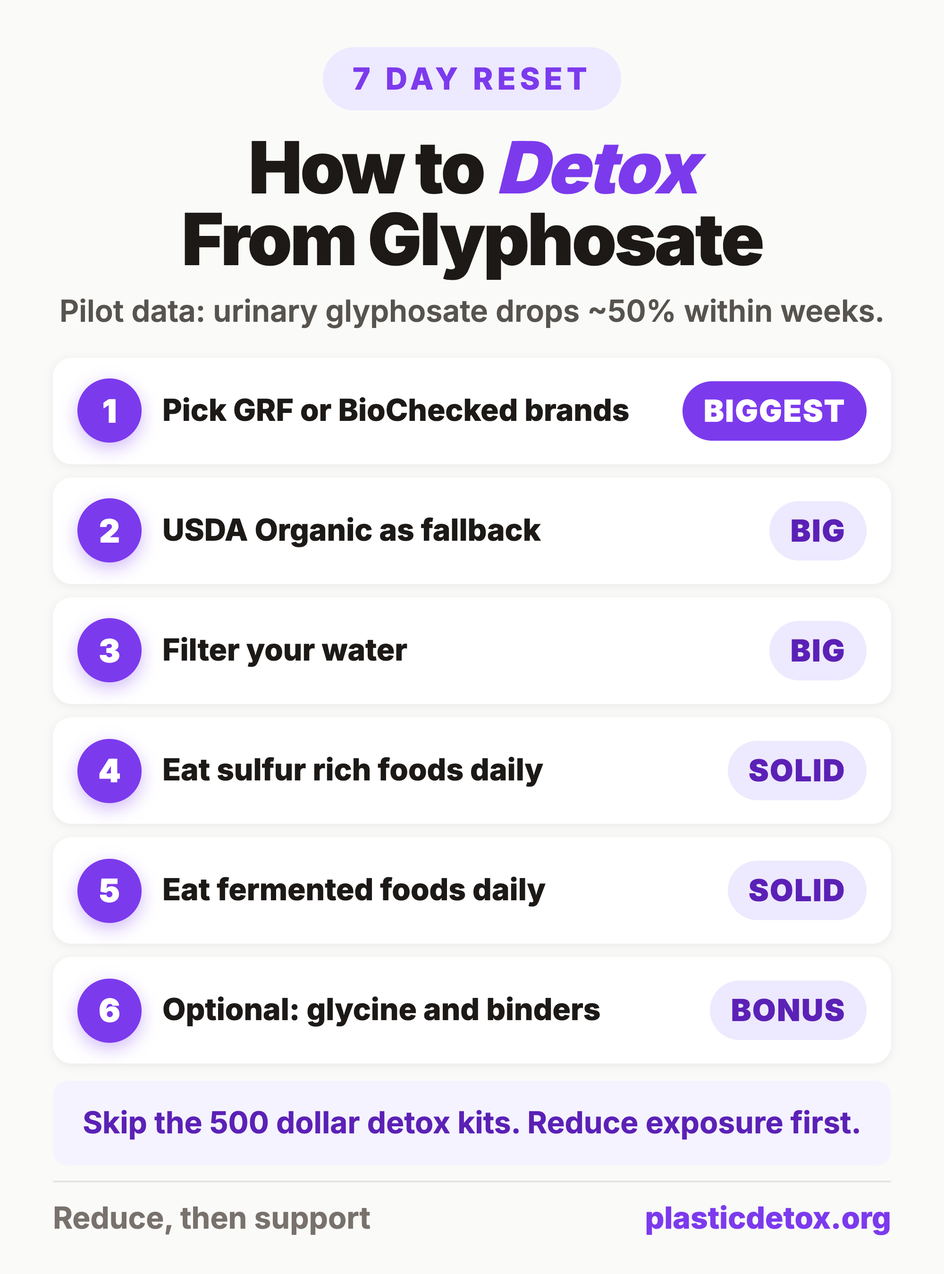
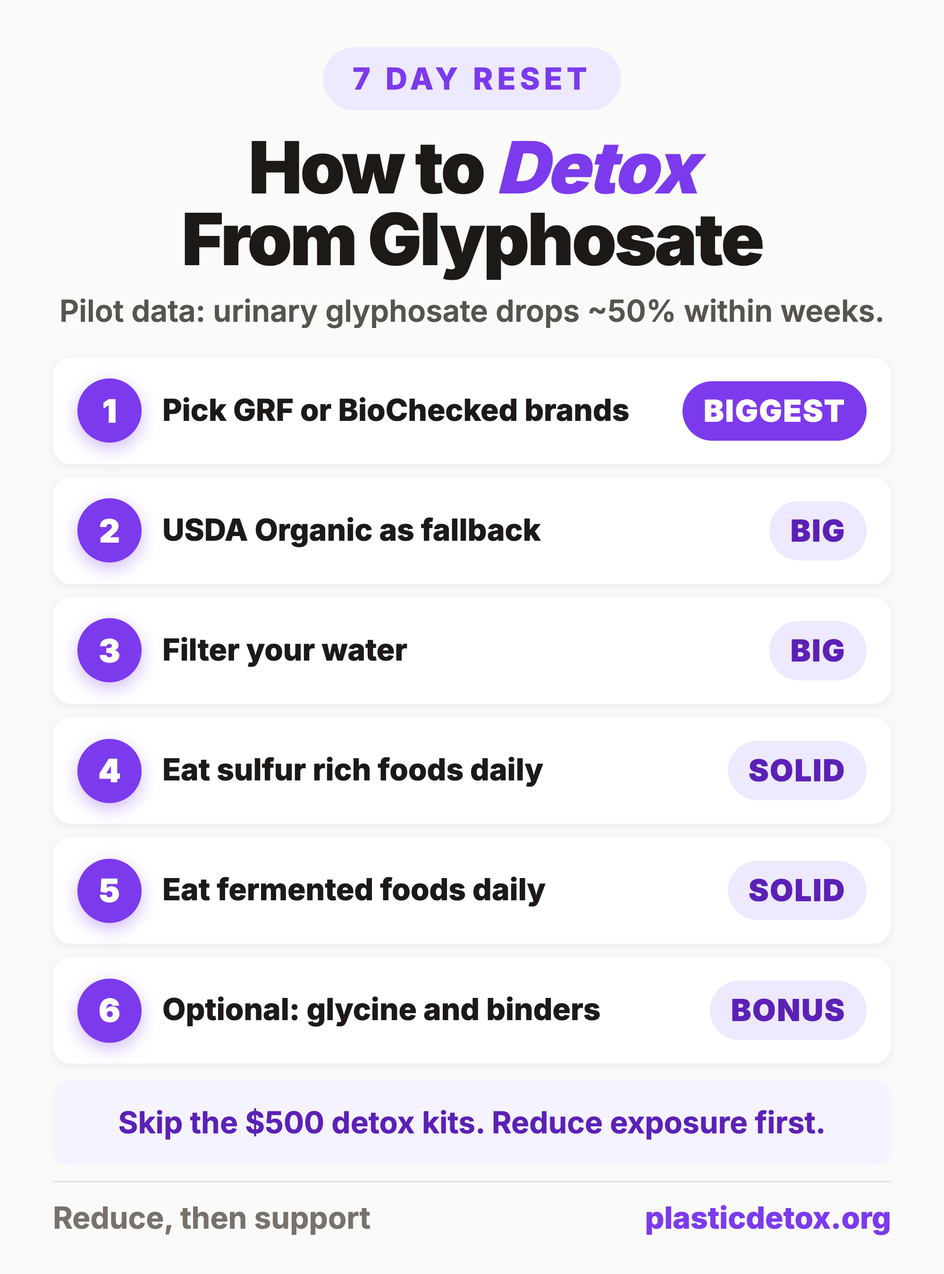
Embed detox and health effects pins, drop pouch recommendations, $ style
- Embeds the health effects summary pin in section 5 and the detox
  roadmap pin at the start of section 7 so readers get the gist without
  scrolling the long copy.
- Adds a "bookmark these two databases" line to the section 2 callout
  pointing to detoxproject.org and biochecked.com, since certifications
  apply per-SKU and the lists update.
- Replaces all baby food pouch recommendations with homemade-puree-in-glass
  and stage 1 glass jar guidance. Microplastics from pouch films are a
  separate exposure on top of pesticide load. Removes Serenity Kids and
  Once Upon a Farm from the brands list.
- Replaces "X to Y dollars" prose with "$X to $Y" everywhere across both
  affected articles, including the "around $100", "$500 detox kits", and
  "$16 billion" references.

Changed region(s): [[0.093, 0.8711, 0.899, 0.9022]]

diff --git a/articles/glyphosate-detox-guide.html b/articles/glyphosate-detox-guide.html
@@ -84,7 +84,7 @@
         "name": "Is glyphosate a carcinogen?",
         "acceptedAnswer": {
           "@type": "Answer",
-          "text": "The International Agency for Research on Cancer (IARC) classified glyphosate as a probable human carcinogen (Group 2A) in 2015, citing evidence linking it to non Hodgkin lymphoma. The 2025 Global Glyphosate Study from the Ramazzini Institute found tumor formation in animals at doses considered safe by EU regulators. The EPA continues to classify glyphosate as not likely to be carcinogenic, which is why the science remains contested. Bayer has committed more than 16 billion dollars to Roundup cancer settlements and set aside additional billions in reserves, one of the largest pesticide related mass tort settlements in U.S. history."
+          "text": "The International Agency for Research on Cancer (IARC) classified glyphosate as a probable human carcinogen (Group 2A) in 2015, citing evidence linking it to non Hodgkin lymphoma. The 2025 Global Glyphosate Study from the Ramazzini Institute found tumor formation in animals at doses considered safe by EU regulators. The EPA continues to classify glyphosate as not likely to be carcinogenic, which is why the science remains contested. Bayer has committed more than $16 billion to Roundup cancer settlements and set aside additional billions in reserves, one of the largest pesticide related mass tort settlements in U.S. history."
         }
       },
       {
@@ -124,7 +124,7 @@
         "name": "Can I test myself for glyphosate exposure?",
         "acceptedAnswer": {
           "@type": "Answer",
-          "text": "Yes, but only with a mass spectrometry mail in lab. The Detox Project home test kit (roughly 99 to 129 dollars) and Mosaic Diagnostics organic acids or GPL TOX panels (roughly 200 to 300 dollars or more) both use LC MS/MS, which is sensitive enough to detect the residue levels that matter. Skip the strip style kits sold on Amazon, since most cannot detect below about 50 ppb while typical exposure shows up in the 1 to 5 ppb range. Roughly 80 percent of Americans test positive. Testing is most useful as a before and after measurement: take a baseline, change your diet for four to six weeks, then retest to see whether the changes worked."
+          "text": "Yes, but only with a mass spectrometry mail in lab. The Detox Project home test kit (roughly $99 to $129) and Mosaic Diagnostics organic acids or GPL TOX panels ($200 to $300 or more) both use LC MS/MS, which is sensitive enough to detect the residue levels that matter. Skip the strip style kits sold on Amazon, since most cannot detect below about 50 ppb while typical exposure shows up in the 1 to 5 ppb range. Roughly 80 percent of Americans test positive. Testing is most useful as a before and after measurement: take a baseline, change your diet for four to six weeks, then retest to see whether the changes worked."
         }
       }
     ]
@@ -231,7 +231,7 @@
 
     <p>If you eat conventional oatmeal, whole wheat bread, hummus, lentil soup, or feed your child store brand baby cereal, you almost certainly have glyphosate in your urine. Independent testing by the Environmental Working Group has found measurable glyphosate residues in roughly 80 percent of the Americans tested, including most children. The chemical does not stay long in any single person, but the typical American diet keeps it constantly topped up.</p>
 
-    <p>Glyphosate is the active ingredient in Roundup and the most heavily used agricultural chemical in history. It is also the subject of one of the largest pesticide related mass tort settlements in U.S. history. Bayer has committed more than 16 billion dollars to settle and resolve non Hodgkin lymphoma claims from Roundup exposure, with additional billions in reserves for pending cases. The science is still being argued, but the precautionary case for reducing exposure is strong, and the practical steps are surprisingly cheap and simple.</p>
+    <p>Glyphosate is the active ingredient in Roundup and the most heavily used agricultural chemical in history. It is also the subject of one of the largest pesticide related mass tort settlements in U.S. history. Bayer has committed more than $16 billion to settle and resolve non Hodgkin lymphoma claims from Roundup exposure, with additional billions in reserves for pending cases. The science is still being argued, but the precautionary case for reducing exposure is strong, and the practical steps are surprisingly cheap and simple.</p>
 
     <p>This guide walks through what glyphosate actually is, where it shows up in your food (the answer is not what most people expect), what the latest 2025 and 2026 research says about the health effects, and exactly how to reduce your exposure in seven days without overhauling your entire pantry.</p>
 
@@ -415,6 +415,7 @@
       <p>The Non GMO Project Verified seal certifies that the crop is not genetically engineered. It says nothing about pesticide use, and a bag of non GMO oats can be sprayed with glyphosate seven days before harvest and still carry the seal.</p>
       <p><strong>USDA Organic</strong> is much better, but it is also imperfect. Organic farmers cannot intentionally apply glyphosate, use Roundup Ready seeds, or use it for desiccation. That is real and meaningful. But organic standards still allow residues up to 5 percent of the EPA tolerance for that crop, which on wheat works out to roughly 75 ppb, and the certification is process based: it audits farming practices but does not require lab testing of the finished food.</p>
       <p>The strongest protection is a finished product testing certification. Two seals do this: the <strong>Glyphosate Residue Free</strong> certification from The Detox Project (detection limit 0.01 ppm, ~10 ppb) and the <strong>Non Glyphosate Certified</strong> seal from BioChecked (independent lab testing of finished product). Both require the food itself to test below detection, not just the field it grew in.</p>
+      <p style="margin-bottom:0;"><strong>Bookmark these two databases.</strong> Before buying any product that claims to be glyphosate free, search the brand and SKU on <a href="https://www.detoxproject.org/glyphosate-residue-free-products/" target="_blank" rel="noopener">detoxproject.org</a> and <a href="https://biochecked.com/non-glyphosate-certified/" target="_blank" rel="noopener">biochecked.com</a>. Certifications apply to specific products, not whole brand catalogs, and lists update as brands are added or expire.</p>
     </div>
 
     <!-- ============================================ -->
@@ -589,9 +590,13 @@
 
     <p>The science on glyphosate is genuinely contested, and any honest summary has to grade the findings rather than treat them as a single block. The strongest evidence is for cancer and gut microbiome disruption. The 2025 wave of research has added meaningful evidence for liver, reproductive, and neurological effects, though these are still emerging rather than settled. Here is what the literature actually supports as of early 2026.</p>
 
+    <div class="pin-container">
+      <img class="pin-img" src="../images/glyphosate-health-effects.webp" alt="Summary infographic of 5 glyphosate health effects graded by current evidence: non Hodgkin lymphoma and gut microbiome disruption rated Strong, fatty liver disease, hormonal and reproductive effects, and pregnancy effects rated Emerging" data-pin-description="What the science says about glyphosate: 5 health effects graded by current evidence. IARC says probable carcinogen. EPA says safe. The science is contested.">
+    </div>
+
     <h3>Cancer</h3>
 
-    <p>The International Agency for Research on Cancer (IARC), the cancer research arm of the World Health Organization, classified glyphosate as <strong>Group 2A: probably carcinogenic to humans</strong> in 2015, citing strong evidence in animal studies and limited evidence in humans for non Hodgkin lymphoma. The 2025 Global Glyphosate Study from Italy's Ramazzini Institute, described by its authors as the most comprehensive independent rodent study to date on the chemical, found increased rates of leukemia and other tumors in animals exposed to doses considered safe under EU regulatory limits. Bayer (which acquired Monsanto in 2018) has committed more than 16 billion dollars to settle non Hodgkin lymphoma claims from groundskeepers, farmers, and homeowners with documented Roundup exposure, with additional billions reserved for pending cases.</p>
+    <p>The International Agency for Research on Cancer (IARC), the cancer research arm of the World Health Organization, classified glyphosate as <strong>Group 2A: probably carcinogenic to humans</strong> in 2015, citing strong evidence in animal studies and limited evidence in humans for non Hodgkin lymphoma. The 2025 Global Glyphosate Study from Italy's Ramazzini Institute, described by its authors as the most comprehensive independent rodent study to date on the chemical, found increased rates of leukemia and other tumors in animals exposed to doses considered safe under EU regulatory limits. Bayer (which acquired Monsanto in 2018) has committed more than $16 billion to settle non Hodgkin lymphoma claims from groundskeepers, farmers, and homeowners with documented Roundup exposure, with additional billions reserved for pending cases.</p>
 
     <p>The EPA continues to classify glyphosate as not likely to be carcinogenic. The European Food Safety Authority took a similar position in its 2023 reapproval review. The disagreement is real, and it is mostly about which studies regulators choose to weigh more heavily. The pattern, however, is consistent: independent and international cancer agencies see a signal that national regulatory bodies in the United States and Europe have so far chosen not to act on.</p>
 
@@ -638,11 +643,11 @@
 
     <p>Two reputable options:</p>
     <ul>
-      <li><strong><a href="https://www.detoxproject.org/test-yourself/glyphosate-test-kit/" target="_blank" rel="noopener">The Detox Project home test kit</a></strong>, roughly 99 to 129 dollars. Uses ELISA screening with LC MS/MS confirmation, sensitive to about 0.5 ppb. You collect a first morning urine sample at home, ship it back, and receive results in two to three weeks. The Detox Project also runs the Glyphosate Residue Free certification program, so the lab work behind the seal is the same lab work behind the test.</li>
-      <li><strong><a href="https://www.mosaicdx.com/" target="_blank" rel="noopener">Mosaic Diagnostics</a></strong> (formerly Great Plains Laboratory), roughly 200 to 300 dollars or more depending on the panel. The GPL TOX and organic acids panels include glyphosate alongside dozens of other environmental toxins, which makes them a good pick if you want a broader picture rather than glyphosate alone.</li>
+      <li><strong><a href="https://www.detoxproject.org/test-yourself/glyphosate-test-kit/" target="_blank" rel="noopener">The Detox Project home test kit</a></strong>, roughly $99 to $129. Uses ELISA screening with LC MS/MS confirmation, sensitive to about 0.5 ppb. You collect a first morning urine sample at home, ship it back, and receive results in two to three weeks. The Detox Project also runs the Glyphosate Residue Free certification program, so the lab work behind the seal is the same lab work behind the test.</li>
+      <li><strong><a href="https://www.mosaicdx.com/" target="_blank" rel="noopener">Mosaic Diagnostics</a></strong> (formerly Great Plains Laboratory), $200 to $300 or more depending on the panel. The GPL TOX and organic acids panels include glyphosate alongside dozens of other environmental toxins, which makes them a good pick if you want a broader picture rather than glyphosate alone.</li>
     </ul>
 
-    <p>The Health Research Institute Laboratories in Iowa was historically the most widely used direct to consumer glyphosate testing lab, with a kit priced around 100 dollars. Their availability for individual orders has been inconsistent in recent years, so verify the order portal is live before relying on it.</p>
+    <p>The Health Research Institute Laboratories in Iowa was historically the most widely used direct to consumer glyphosate testing lab, with a kit priced around $100. Their availability for individual orders has been inconsistent in recent years, so verify the order portal is live before relying on it.</p>
 
     <p>Roughly 80 percent of Americans test positive in general population data. Typical levels fall in the 1 to 3 ng/mL range, with farm community residents and heavy oat eaters often testing several times higher. The pilot studies that exist (a 2017 Detox Project sample and a 2020 Fagan paper, both small) found that urinary glyphosate dropped roughly 50 percent within weeks of switching to organic. The evidence base is small, the direction is consistent.</p>
 
@@ -658,7 +663,7 @@
 
     <p>A single test is a snapshot. Its real value is as a baseline for measuring change. Test once, change your diet, and test again four to six weeks later. The before and after comparison is far more useful than a single absolute number, and it tells you whether the changes you made actually moved the needle.</p>
 
-    <p>Order through a mass spec lab, not Amazon. The two reliable starting points are <a href="https://www.detoxproject.org/test-yourself/glyphosate-test-kit/" target="_blank" rel="noopener">The Detox Project home test kit</a> (roughly 99 to 129 dollars) or a <a href="https://www.mosaicdx.com/" target="_blank" rel="noopener">Mosaic Diagnostics</a> organic acids or GPL TOX panel (roughly 200 to 300 dollars or more) if you want a broader environmental toxins picture in the same draw.</p>
+    <p>Order through a mass spec lab, not Amazon. The two reliable starting points are <a href="https://www.detoxproject.org/test-yourself/glyphosate-test-kit/" target="_blank" rel="noopener">The Detox Project home test kit</a> (roughly $99 to $129) or a <a href="https://www.mosaicdx.com/" target="_blank" rel="noopener">Mosaic Diagnostics</a> organic acids or GPL TOX panel ($200 to $300 or more) if you want a broader environmental toxins picture in the same draw.</p>
 
     <!-- ============================================ -->
     <!-- SECTION 7: 7 DAY RESET -->
@@ -667,6 +672,10 @@
     <h2 id="7-day-reset">7. The 7 Day Glyphosate Reset</h2>
 
     <p>You do not need to overhaul your entire pantry to dramatically lower your glyphosate exposure. Most of the benefit comes from swapping the highest residue staples (oats, wheat, legumes, baby food) and filtering your water. Here is a structured seven day plan that takes the project from "I should do this someday" to "this is done."</p>
+
+    <div class="pin-container">
+      <img class="pin-img" src="../images/glyphosate-detox-simple.webp" alt="Six step glyphosate detox roadmap: pick GRF or BioChecked brands, USDA Organic as fallback, filter your water, eat sulfur rich foods daily, eat fermented foods daily, optional glycine and binders" data-pin-description="How to detox from glyphosate: 6 step roadmap. Pilot data shows urinary glyphosate drops about 50% within weeks of switching. Skip the $500 detox kits.">
+    </div>
 
     <h3>Day 1 to 2: Audit Your Pantry</h3>
 
@@ -696,7 +705,7 @@
       <li><strong>Coffee:</strong> switch to <a href="https://www.amazon.com/s?k=Purity+Coffee+organic&tag=plasticdetox-20" target="_blank" rel="noopener sponsored">Purity Coffee</a>, which is organic and third party tested below detection for glyphosate, mold, and ochratoxin. Conventional coffee is sprayed with glyphosate as a weed killer under coffee trees in many regions.</li>
       <li><strong>Cooking oil:</strong> swap canola, soybean, and "vegetable" oil for <a href="https://www.amazon.com/s?k=California+Olive+Ranch+organic+olive+oil&tag=plasticdetox-20" target="_blank" rel="noopener sponsored">California Olive Ranch organic extra virgin olive oil</a> in dark glass, <a href="https://www.amazon.com/s?k=Nutiva+organic+coconut+oil&tag=plasticdetox-20" target="_blank" rel="noopener sponsored">Nutiva organic virgin coconut oil</a>, or <a href="https://www.amazon.com/s?k=Chosen+Foods+organic+avocado+oil&tag=plasticdetox-20" target="_blank" rel="noopener sponsored">Chosen Foods organic avocado oil</a>.</li>
       <li><strong>Bread, pasta, and crackers:</strong> shift to organic whole grain versions, ideally sprouted or sourdough. Jovial, One Degree Organics, and Alvarado Street are reliable brands.</li>
-      <li><strong>Baby food:</strong> read labels carefully. <a href="https://www.amazon.com/s?k=Serenity+Kids+baby+food&tag=plasticdetox-20" target="_blank" rel="noopener sponsored">Serenity Kids</a>, <a href="https://www.amazon.com/s?k=Once+Upon+a+Farm+organic+baby+food&tag=plasticdetox-20" target="_blank" rel="noopener sponsored">Once Upon a Farm</a>, and certified organic single ingredient pouches are good defaults.</li>
+      <li><strong>Baby food:</strong> skip plastic pouches because of microplastic concerns. The cleanest option is homemade puree from organic produce, stored in glass. For shelf stable convenience, look for organic single ingredient stage 1 baby food in glass jars.</li>
     </ul>
 
     <h3>Day 5: Filter Your Water</h3>
@@ -790,9 +799,8 @@
 
     <div class="material-card">
       <h3>Baby and Kids' Food</h3>
+      <p style="margin-bottom:14px;font-size:0.95rem;color:#57534e;"><strong>Skip plastic baby food pouches.</strong> The plastic films release microplastics into the food during storage and warming, which adds a separate exposure on top of any pesticide load. The cleanest baseline is homemade puree from organic produce stored in glass. For shelf stable convenience, look for organic single ingredient stage 1 baby food in glass jars at the grocery store.</p>
       <ul>
-        <li><strong><a href="https://www.amazon.com/s?k=Serenity+Kids+baby+food&tag=plasticdetox-20" target="_blank" rel="noopener sponsored">Serenity Kids</a></strong>: ethically sourced, organic, low sugar baby food pouches.</li>
-        <li><strong><a href="https://www.amazon.com/s?k=Once+Upon+a+Farm+organic&tag=plasticdetox-20" target="_blank" rel="noopener sponsored">Once Upon a Farm</a></strong>: organic refrigerated baby and toddler pouches, simple ingredient lists.</li>
         <li><strong><a href="https://www.amazon.com/s?k=Lesser+Evil+organic+baby&tag=plasticdetox-20" target="_blank" rel="noopener sponsored">Lesser Evil organic baby snacks</a></strong>: organic, no canola or soybean oil.</li>
         <li><strong><a href="https://www.amazon.com/s?k=Bobo%27s+oat+bites+organic&tag=plasticdetox-20" target="_blank" rel="noopener sponsored">Bobo's Oat Bites (organic)</a></strong>: certified organic, made with oats from cleaner suppliers.</li>
         <li>Skip: most major store brand infant cereals (especially conventional oat and wheat based), Cheerios and Honey Nut Cheerios, conventional graham crackers, and conventional puffed snacks.</li>
@@ -870,7 +878,7 @@
 
     <div class="callout-warning">
       <div class="callout-title">Honest read on detox protocols</div>
-      <p>Most "glyphosate detox protocols" sold online (special juices, IV drips, expensive multi product cleanses) are not supported by clinical evidence. The body clears glyphosate fairly well on its own once the dietary input stops. Spend the money on organic groceries and a reverse osmosis filter first. Add glycine, fermented foods, and binders if you want a bit of extra support. Skip the 500 dollar 21 day cleanse kit.</p>
+      <p>Most "glyphosate detox protocols" sold online (special juices, IV drips, expensive multi product cleanses) are not supported by clinical evidence. The body clears glyphosate fairly well on its own once the dietary input stops. Spend the money on organic groceries and a reverse osmosis filter first. Add glycine, fermented foods, and binders if you want a bit of extra support. Skip the $500 21 day cleanse kit.</p>
     </div>
 
     <!-- ============================================ -->
@@ -892,10 +900,10 @@
     <h3>Safer Choices for First Foods, Formula, and Toddler Snacks</h3>
 
     <ul>
-      <li><strong>Infant cereals:</strong> avoid conventional oat, wheat, and rice cereals. <a href="https://www.amazon.com/s?k=Serenity+Kids+grain+free+puffs&tag=plasticdetox-20" target="_blank" rel="noopener sponsored">Serenity Kids grain free puffs</a> and <a href="https://www.amazon.com/s?k=Lesser+Evil+lil+puffs+organic&tag=plasticdetox-20" target="_blank" rel="noopener sponsored">Lesser Evil organic lil puffs</a> are reliable replacements.</li>
+      <li><strong>Infant cereals:</strong> avoid conventional oat, wheat, and rice cereals. Use <a href="https://www.amazon.com/s?k=One+Degree+Organics+sprouted+oat+cereal&tag=plasticdetox-20" target="_blank" rel="noopener sponsored">One Degree Organics sprouted oat baby cereal</a> (BioChecked) or <a href="https://www.amazon.com/s?k=Lesser+Evil+lil+puffs+organic&tag=plasticdetox-20" target="_blank" rel="noopener sponsored">Lesser Evil organic lil puffs</a> as a reliable replacement.</li>
       <li><strong>Formula:</strong> conventional formulas use corn syrup solids and conventional soy or whey protein. European brands like <a href="https://www.amazon.com/s?k=HiPP+organic+formula&tag=plasticdetox-20" target="_blank" rel="noopener sponsored">HiPP</a> and <a href="https://www.amazon.com/s?k=Holle+organic+formula&tag=plasticdetox-20" target="_blank" rel="noopener sponsored">Holle</a> use certified organic, biodynamic ingredients with no Roundup Ready inputs. Important caveat: the FDA does not regulate these formulas in the U.S., they are sold here through gray market importers, customs has periodically seized shipments, and labeling and instructions are not in English. Check current FDA import status before ordering and consult your pediatrician.</li>
       <li><strong>Toddler snacks:</strong> read labels. Anything with "wheat flour," "oat flour," or "soybean oil" as a main ingredient is likely conventional. Organic alternatives exist for almost every category.</li>
-      <li><strong>Fruit pouches:</strong> conventional fruit pouches are often fine (apples and pears are tier 3 risk), but organic is still better when budget allows.</li>
+      <li><strong>Skip fruit pouches:</strong> the plastic films release microplastics into the food and the warming and storage cycles only make it worse. Cut up fresh organic apples, pears, and berries instead, or make your own purees and store in glass.</li>
     </ul>
 
     <h3>Reducing Exposure During Pregnancy Without Anxiety</h3>
@@ -903,8 +911,8 @@
     <p>The single highest impact change a pregnant woman can make is switching her own breakfast (where conventional oats, wheat toast, and pastries cluster) and her grain based snacks to organic. That one move tends to cut total dietary glyphosate by 50 to 70 percent without any other changes. Add a quality water filter and you have addressed most of the available risk. You do not need a perfect organic pantry to make a big difference.</p>
 
     <div class="callout">
-      <div class="callout-title">The clean baby pantry, in five products</div>
-      If you want a starter pack and nothing more, this is what it looks like. (1) <a href="https://www.amazon.com/s?k=One+Degree+Organics+sprouted+oat+cereal&tag=plasticdetox-20" target="_blank" rel="noopener sponsored">One Degree Organics sprouted oat baby cereal</a>. (2) <a href="https://www.amazon.com/s?k=Serenity+Kids+baby+food&tag=plasticdetox-20" target="_blank" rel="noopener sponsored">Serenity Kids meat and veggie pouches</a>. (3) <a href="https://www.amazon.com/s?k=Once+Upon+a+Farm+organic&tag=plasticdetox-20" target="_blank" rel="noopener sponsored">Once Upon a Farm organic refrigerated pouches</a>. (4) <a href="https://www.amazon.com/s?k=Lesser+Evil+lil+puffs+organic&tag=plasticdetox-20" target="_blank" rel="noopener sponsored">Lesser Evil organic puffs</a>. (5) <a href="https://www.amazon.com/s?k=HiPP+organic+formula&tag=plasticdetox-20" target="_blank" rel="noopener sponsored">HiPP organic formula</a> if you supplement or formula feed. Add organic whole milk, organic eggs, and any fresh fruit and vegetable. That is the foundation.
+      <div class="callout-title">The clean baby pantry, without plastic pouches</div>
+      If you want a starter pack and nothing more, this is what it looks like. (1) <a href="https://www.amazon.com/s?k=One+Degree+Organics+sprouted+oat+cereal&tag=plasticdetox-20" target="_blank" rel="noopener sponsored">One Degree Organics sprouted oat baby cereal</a>. (2) Homemade purees from organic produce, stored in glass jars (the cleanest baseline by far). (3) Organic single ingredient stage 1 baby food in glass jars from the grocery store. (4) <a href="https://www.amazon.com/s?k=Lesser+Evil+lil+puffs+organic&tag=plasticdetox-20" target="_blank" rel="noopener sponsored">Lesser Evil organic puffs</a>. (5) <a href="https://www.amazon.com/s?k=HiPP+organic+formula&tag=plasticdetox-20" target="_blank" rel="noopener sponsored">HiPP organic formula</a> if you supplement or formula feed. Add organic whole milk, organic eggs, and any fresh fruit and vegetable. That is the foundation.
     </div>
 
     <p>For a deeper dive on baby and toddler product safety beyond food, see our companion article on <a href="non-toxic-baby-toddler-products-guide.html">non toxic baby and toddler products</a>.</p>
@@ -928,7 +936,7 @@
 
     <h3>The Bayer/Monsanto Litigation Landscape</h3>
 
-    <p>Bayer (which acquired Monsanto in 2018) has committed more than 16 billion dollars to Roundup cancer settlements and set aside additional billions in reserves for pending cases, one of the largest pesticide related mass tort settlements in U.S. history. Thousands of cases remain in the pipeline. The company has continued to argue that glyphosate is safe while simultaneously settling at unprecedented scale, a legal position increasingly difficult to reconcile with the regulatory position.</p>
+    <p>Bayer (which acquired Monsanto in 2018) has committed more than $16 billion to Roundup cancer settlements and set aside additional billions in reserves for pending cases, one of the largest pesticide related mass tort settlements in U.S. history. Thousands of cases remain in the pipeline. The company has continued to argue that glyphosate is safe while simultaneously settling at unprecedented scale, a legal position increasingly difficult to reconcile with the regulatory position.</p>
 
     <h3>"EPA Approved" and "Safe" Are Not Synonyms</h3>
 
@@ -994,7 +1002,7 @@
 
     <div class="callout">
       <div class="callout-title">Brands to trust (for at a glance shopping)</div>
-      One Degree Organics, Jovial, Eden Foods, Lundberg Family Farms, California Olive Ranch, Purity Coffee, Vital Farms, Organic Valley, Force of Nature, Serenity Kids, Once Upon a Farm, Lesser Evil, HiPP, Holle.
+      One Degree Organics, Jovial, Eden Foods, Lundberg Family Farms, California Olive Ranch, Purity Coffee, Vital Farms, Organic Valley, Force of Nature, Lesser Evil, HiPP, Holle.
     </div>
 
     <div class="callout">
@@ -1038,7 +1046,7 @@
       </div>
       <div class="faq-item">
         <div class="faq-question">Is glyphosate a carcinogen?</div>
-        <p class="faq-answer">The International Agency for Research on Cancer (IARC) classified glyphosate as a probable human carcinogen (Group 2A) in 2015, citing evidence linking it to non Hodgkin lymphoma. The 2025 Global Glyphosate Study from the Ramazzini Institute found tumor formation in animals at doses considered safe by EU regulators. The EPA continues to classify glyphosate as not likely to be carcinogenic, which is why the science remains contested. Bayer has committed more than 16 billion dollars to Roundup cancer settlements and set aside additional billions in reserves, one of the largest pesticide related mass tort settlements in U.S. history.</p>
+        <p class="faq-answer">The International Agency for Research on Cancer (IARC) classified glyphosate as a probable human carcinogen (Group 2A) in 2015, citing evidence linking it to non Hodgkin lymphoma. The 2025 Global Glyphosate Study from the Ramazzini Institute found tumor formation in animals at doses considered safe by EU regulators. The EPA continues to classify glyphosate as not likely to be carcinogenic, which is why the science remains contested. Bayer has committed more than $16 billion to Roundup cancer settlements and set aside additional billions in reserves, one of the largest pesticide related mass tort settlements in U.S. history.</p>
       </div>
       <div class="faq-item">
         <div class="faq-question">Can a water filter remove glyphosate?</div>
@@ -1058,7 +1066,7 @@
       </div>
       <div class="faq-item">
         <div class="faq-question">Can I test myself for glyphosate exposure?</div>
-        <p class="faq-answer">Yes, but only with a mass spectrometry mail in lab. The Detox Project home test kit (roughly 99 to 129 dollars) and Mosaic Diagnostics organic acids or GPL TOX panels (roughly 200 to 300 dollars or more) both use LC MS/MS, which is sensitive enough to detect the residue levels that matter. Skip the strip style kits sold on Amazon, since most cannot detect below about 50 ppb while typical exposure shows up in the 1 to 5 ppb range. Roughly 80 percent of Americans test positive. Testing is most useful as a before and after measurement: take a baseline, change your diet for four to six weeks, then retest to see whether the changes worked.</p>
+        <p class="faq-answer">Yes, but only with a mass spectrometry mail in lab. The Detox Project home test kit (roughly $99 to $129) and Mosaic Diagnostics organic acids or GPL TOX panels ($200 to $300 or more) both use LC MS/MS, which is sensitive enough to detect the residue levels that matter. Skip the strip style kits sold on Amazon, since most cannot detect below about 50 ppb while typical exposure shows up in the 1 to 5 ppb range. Roughly 80 percent of Americans test positive. Testing is most useful as a before and after measurement: take a baseline, change your diet for four to six weeks, then retest to see whether the changes worked.</p>
       </div>
     </div>
 

diff --git a/articles/how-to-remove-microplastics-from-drinking-water.html b/articles/how-to-remove-microplastics-from-drinking-water.html
@@ -294,7 +294,7 @@
 
     <div class="infographic">
       <div class="infographic-title">Which Filter Is Right for You?</div>
-      <svg viewBox="0 0 520 260" xmlns="http://www.w3.org/2000/svg" role="img" aria-label="Decision flowchart: budget under 100 dollars leads to Clearly Filtered pitcher, budget 150 to 400 dollars leads to under-sink reverse osmosis, renting or no plumbing leads to countertop reverse osmosis">
+      <svg viewBox="0 0 520 260" xmlns="http://www.w3.org/2000/svg" role="img" aria-label="Decision flowchart: budget under $100 leads to Clearly Filtered pitcher, budget $150 to $400 leads to under-sink reverse osmosis, renting or no plumbing leads to countertop reverse osmosis">
         <!-- Start -->
         <rect x="175" y="8" width="170" height="38" rx="19" fill="#7c3aed"/>
         <text x="260" y="32" font-family="Inter,sans-serif" font-size="13" font-weight="700" fill="#fff" text-anchor="middle">What's your situation?</text>

diff --git a/images/glyphosate-detox-simple.html b/images/glyphosate-detox-simple.html
@@ -168,7 +168,7 @@
         <div class="step-impact">Bonus</div>
       </div>
     </div>
-    <div class="bottom-tip">Skip the 500 dollar detox kits. Reduce exposure first.</div>
+    <div class="bottom-tip">Skip the $500 detox kits. Reduce exposure first.</div>
     <div class="footer">
       <span class="footer-stat">Reduce, then support</span>
       <span class="footer-url">plasticdetox.org</span>
